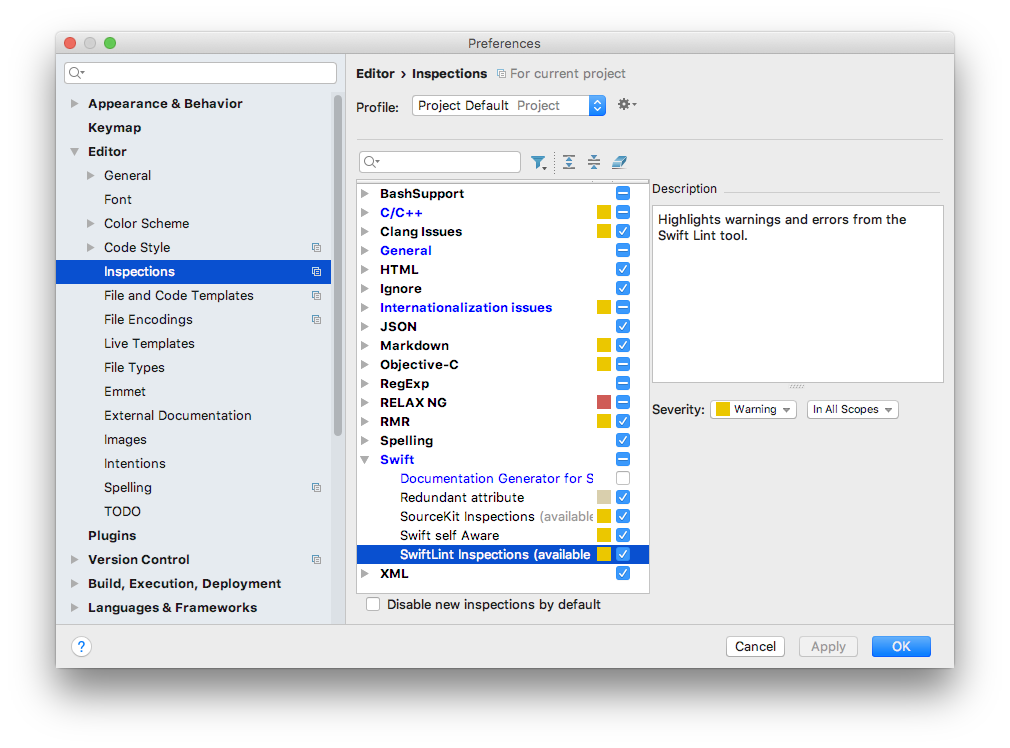
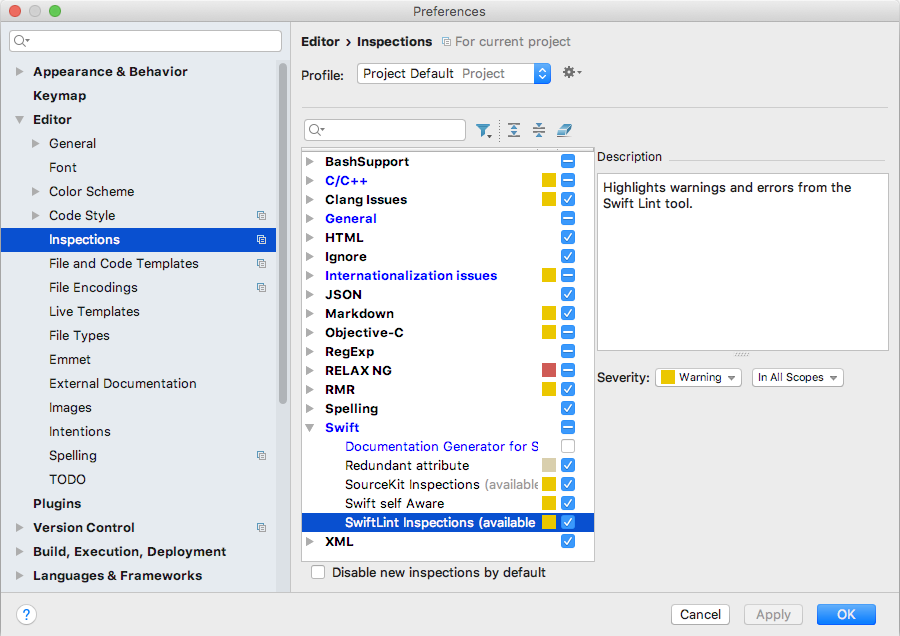
Changed images

Changed region(s): [[0.0, 0.0, 1.0, 1.0]]

diff --git a/README.md b/README.md
@@ -15,10 +15,10 @@ You should already have SwiftLint installed somewhere.
  
  3. Set path to SwiftLint binary in the Preferences:
 
-    <img src="img/preferences.png" alt="SwiftLint settings in AppCode Preferences" width="677"/>
+    <img src="img/preferences.png" width="897" alt="SwiftLint settings in AppCode Preferences" width="677"/>
 
  4. Check that the corresponding inspection is turned on in AppCode:
  
-     <img src="img/inspections.png" alt="Section Inspections of AppCode Preferences" width="919"/>
+     <img src="img/inspections.png" width="900" alt="Section Inspections of AppCode Preferences" width="919"/>
 
 You are good to go!
